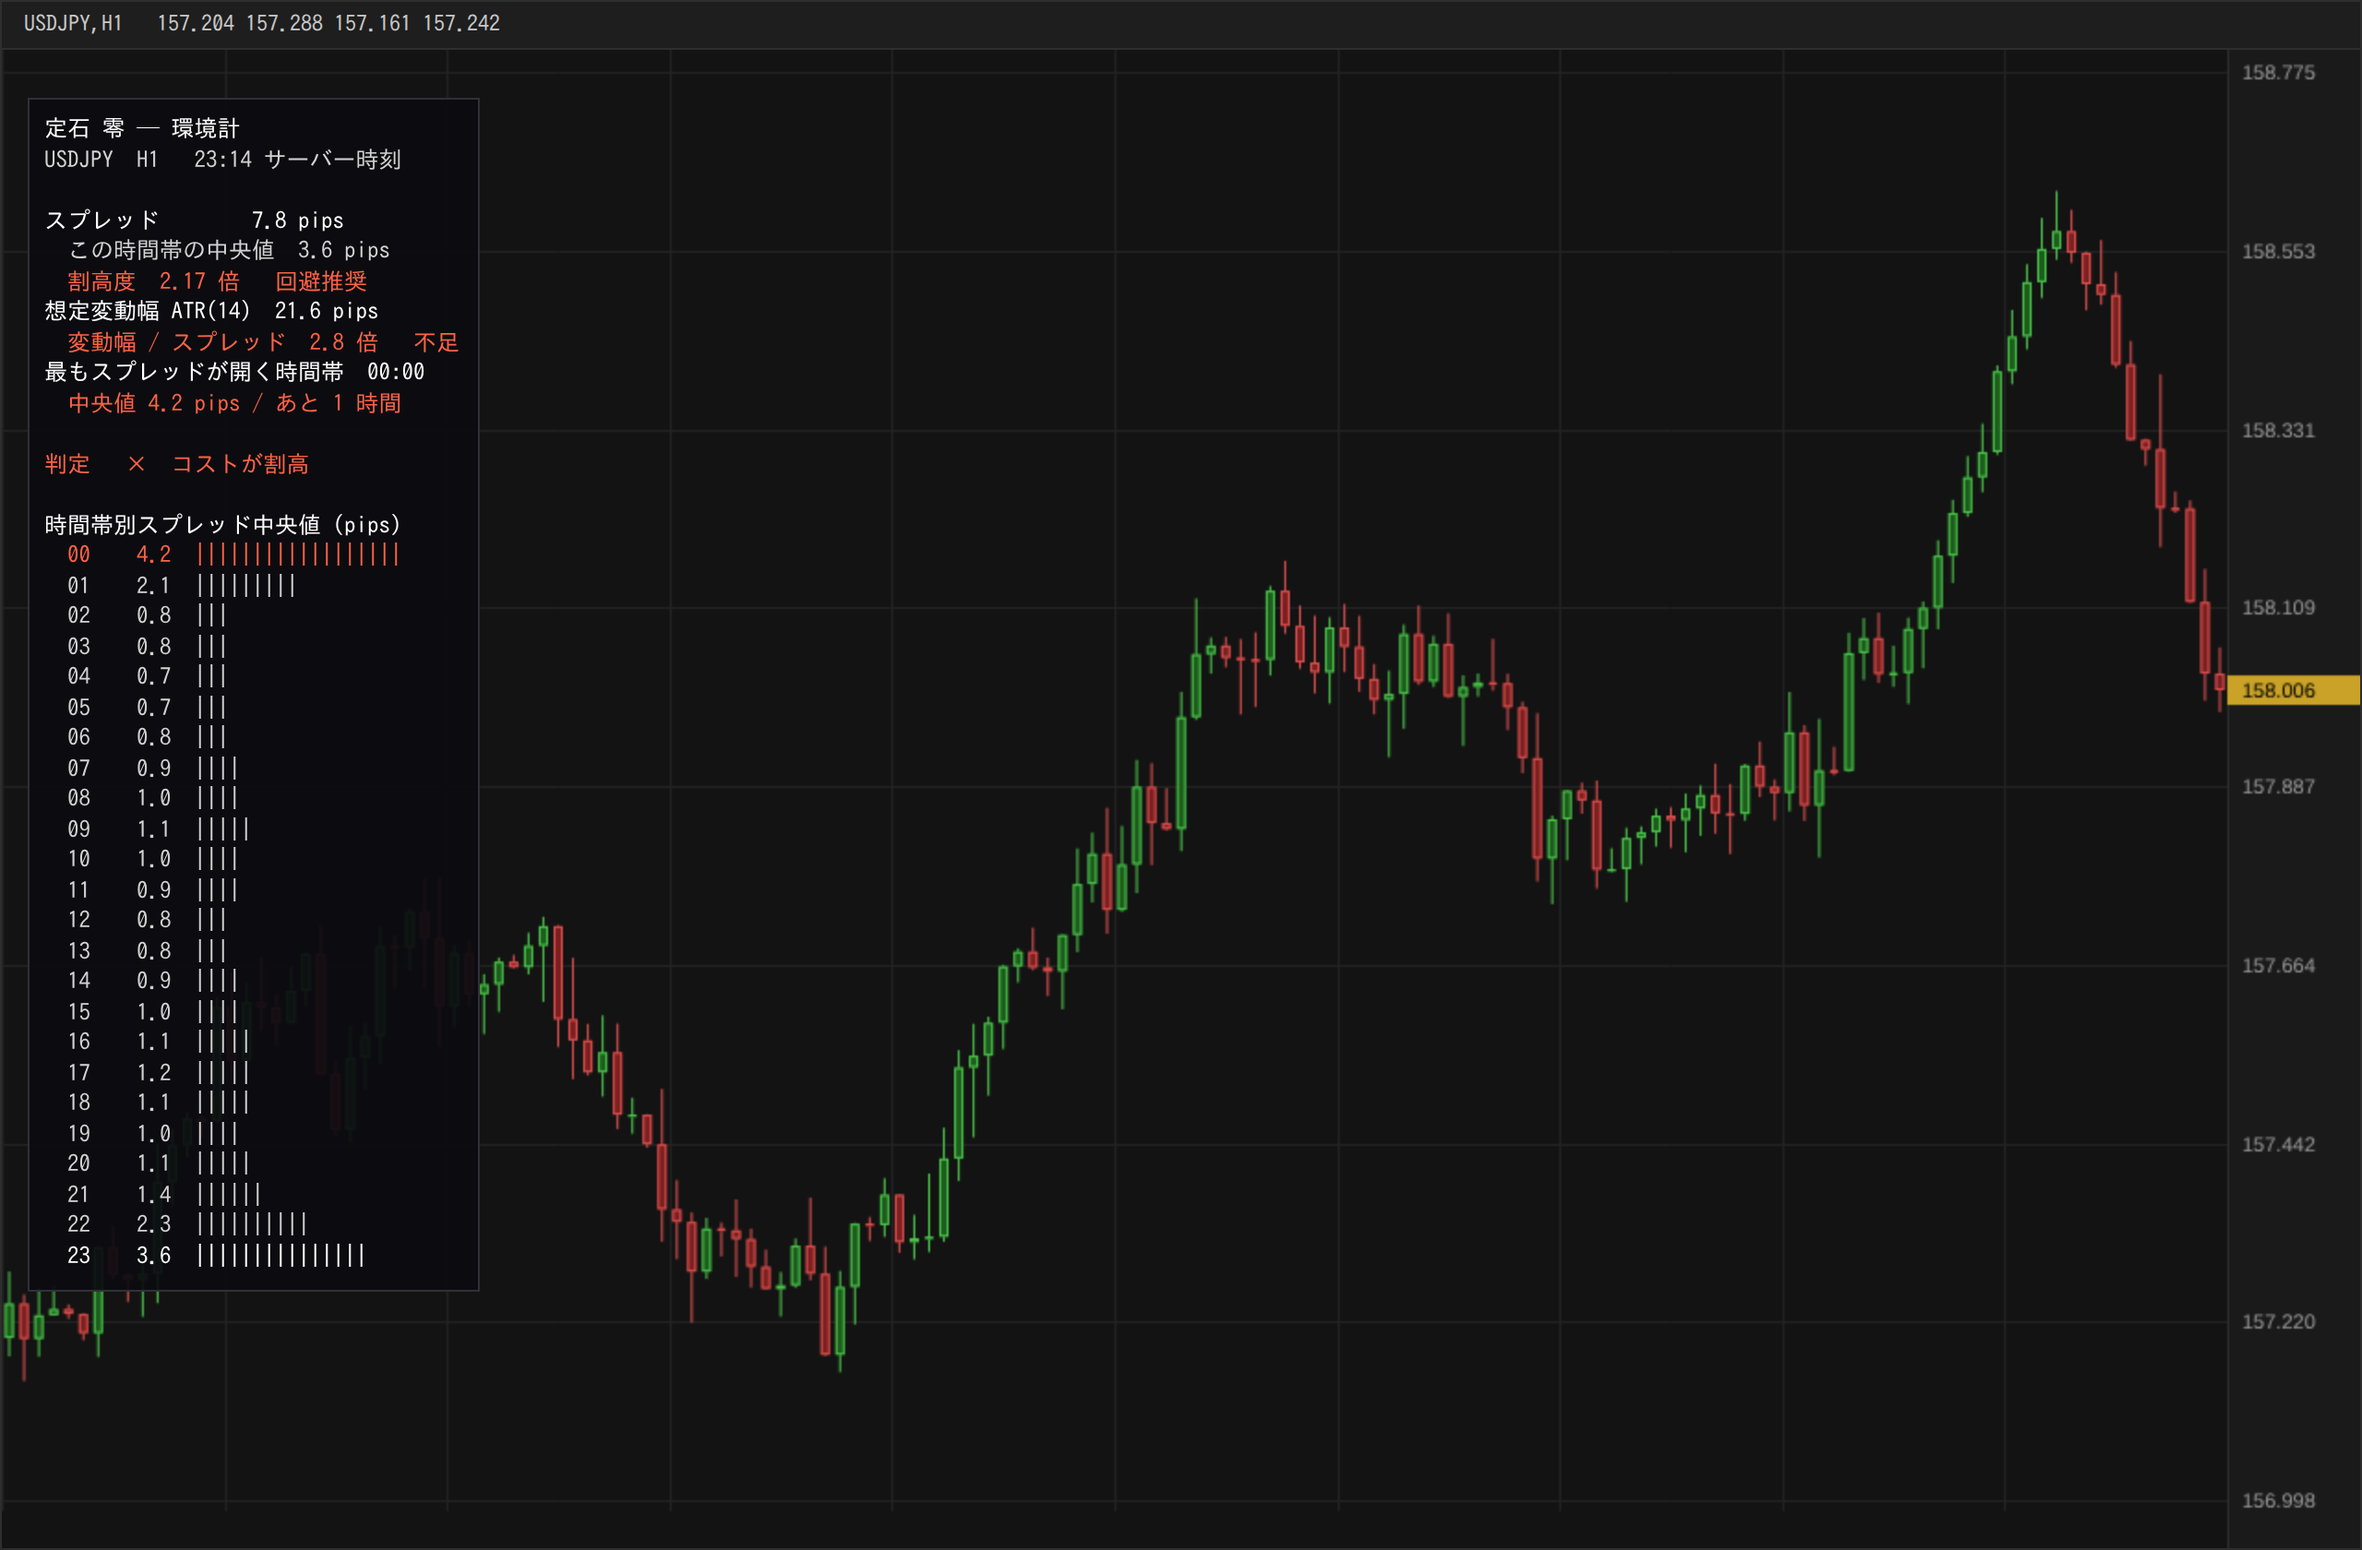
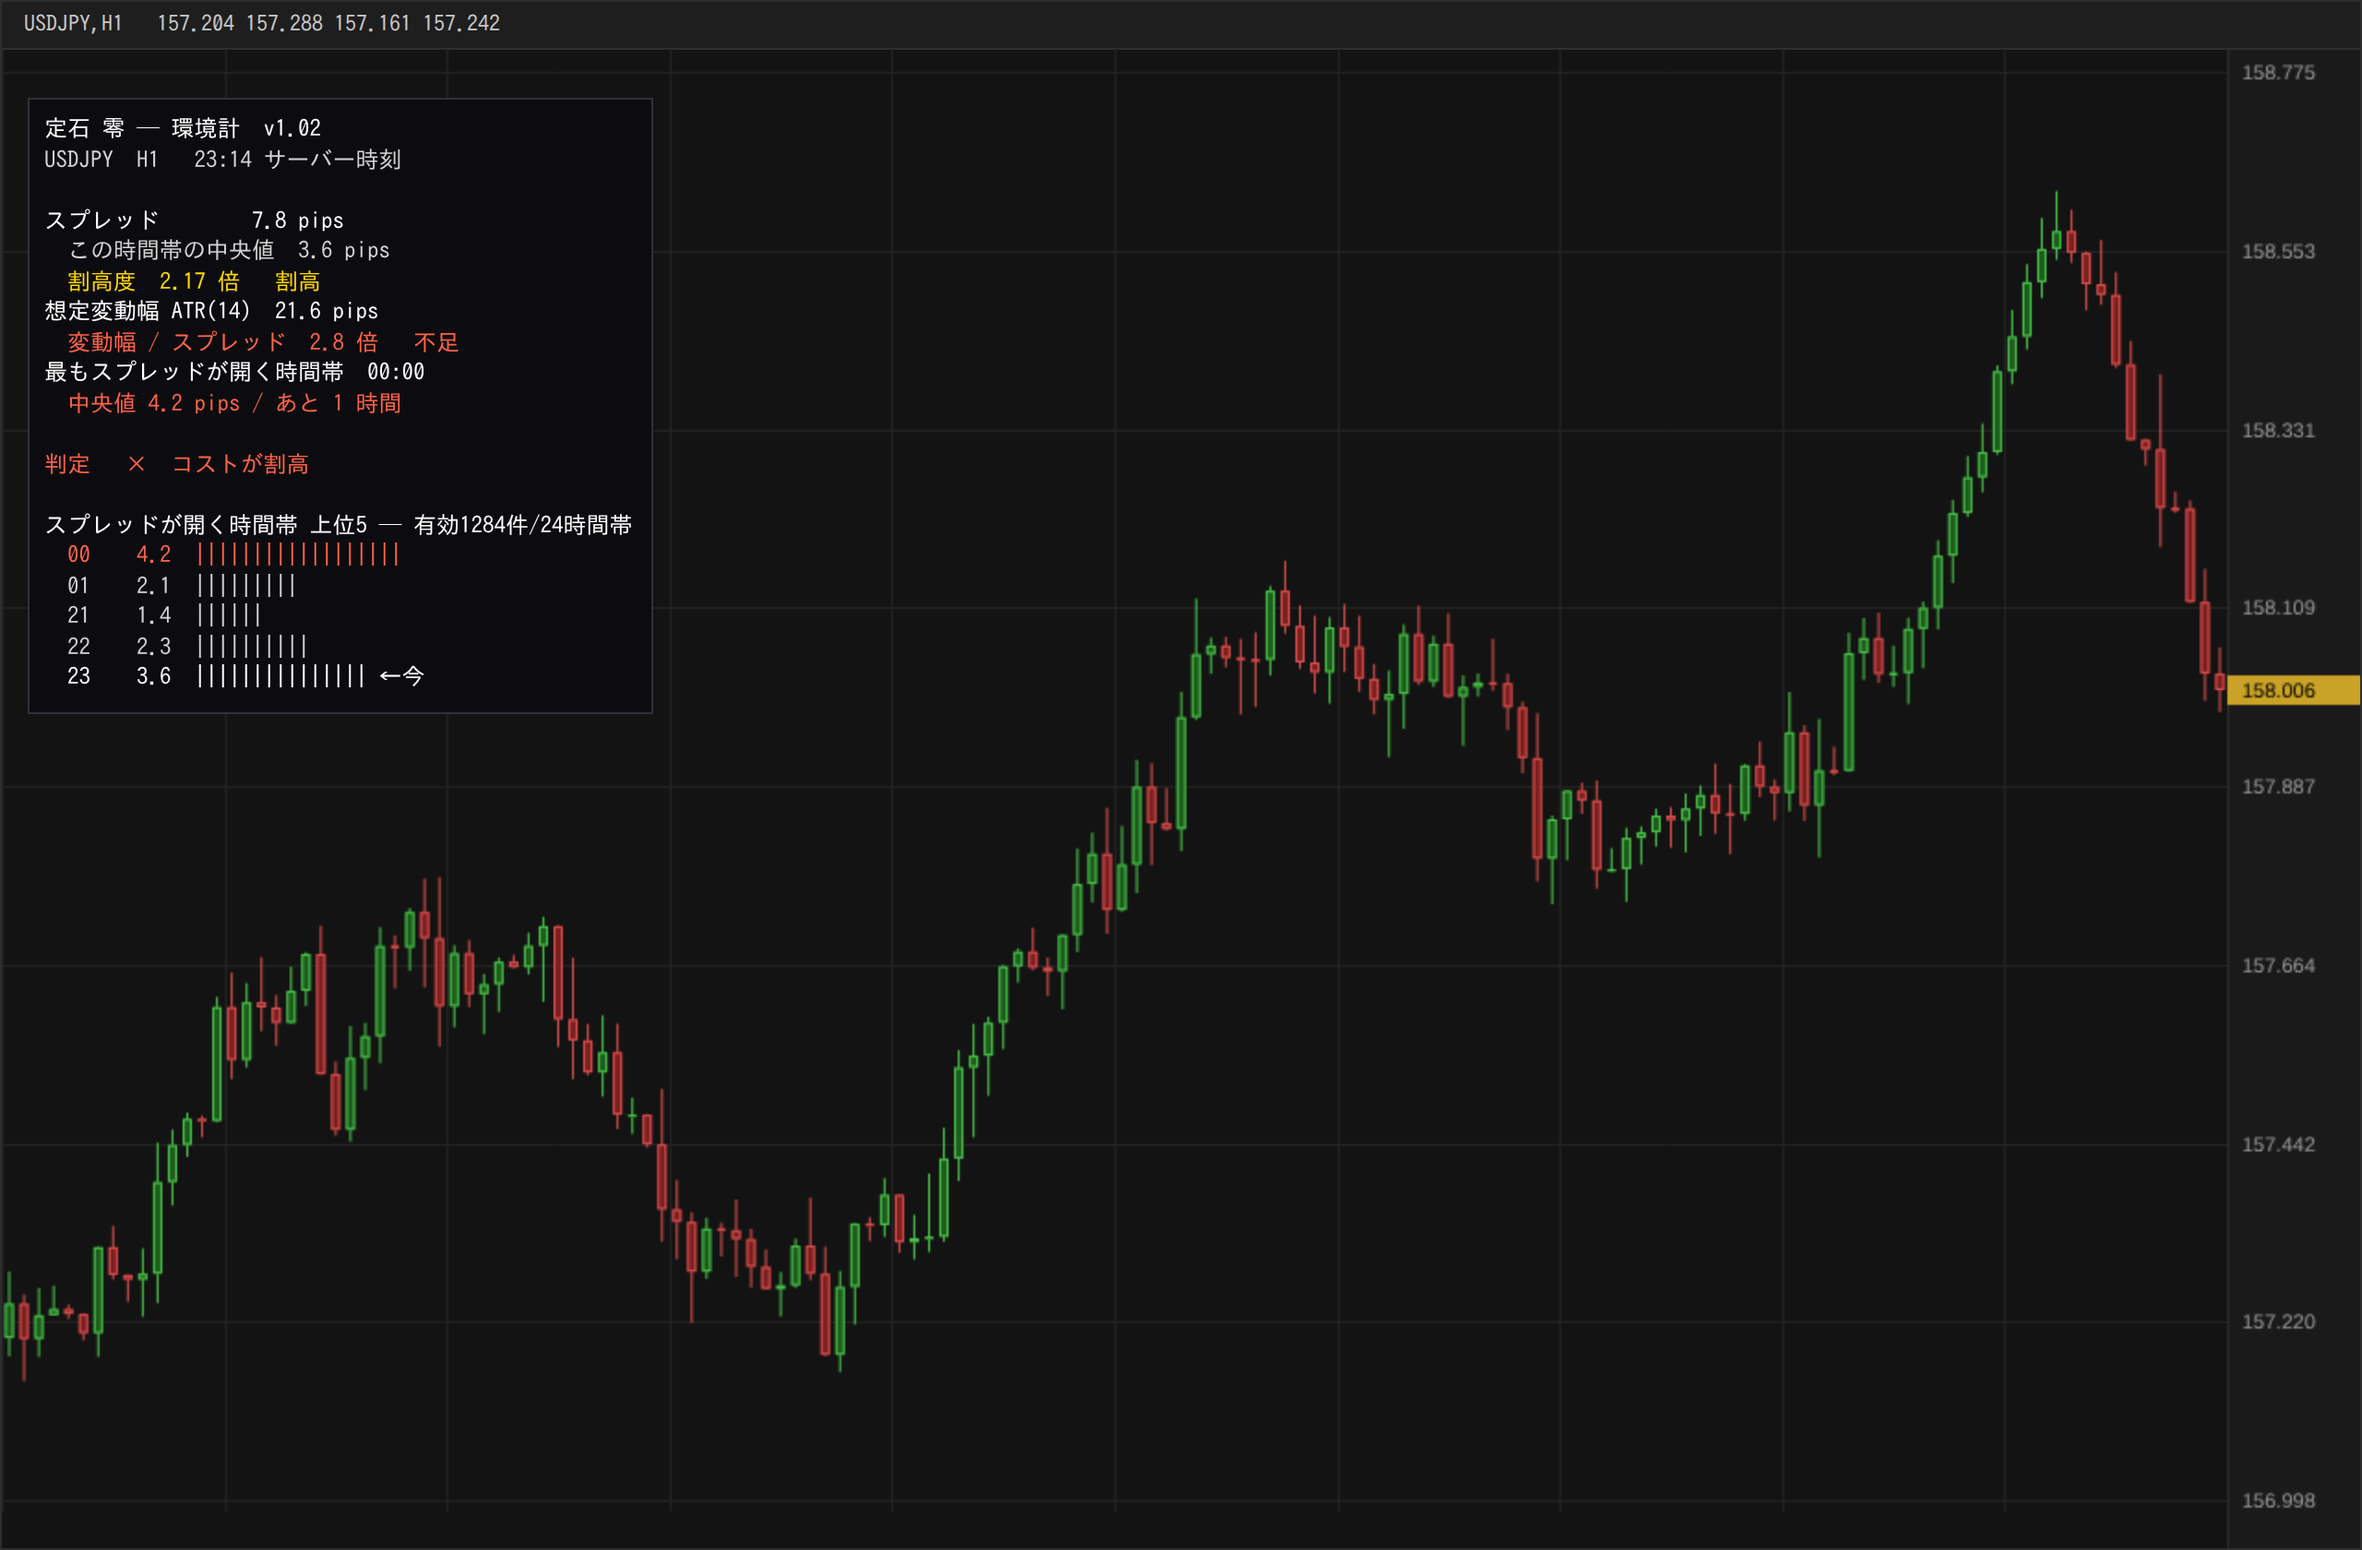
docs: 環境計 v1.02 に合わせて表示イメージ図と関連文書を更新
イメージ図を v1.02 の実際の出力に合わせて作り直した。
時間帯一覧が既定で上位5件+現在の時間帯になったため、パネルは38行から
14行に縮み、見出しに有効件数と成立時間帯数が入る。

FORM-kankyokei.md:
- 同梱ファイル名を ChienConditionMeter_v101.ex5 / .ex4 に修正。
  版番号は検証中に旧ビルドと区別するためのもので、配布時に外せる旨も記載
- スクリーンショット4枚の撮影難易度を明記し、
  イメージ図を実物として掲載しない旨の注意を追加

SALES.md:
- 時間帯一覧の説明を上位表示と有効件数の併記に合わせて書き直し
- 弱点の節に「導入直後は判定できませんと表示される。これは仕様であり、
  測れていないものを良好とは表示しない」を追記。
  v1.02 で修正した挙動を商品説明にも反映した

Claude-Session: https://claude.ai/code/session_015N7n1xtaz9Y9DcWXnbRY9X

diff --git a/fx-ea/indicator/mockup/gen.py b/fx-ea/indicator/mockup/gen.py
@@ -25,43 +25,57 @@ def bar(v, mx, width=18):
     return "|" * max(0, int(round(v / mx * width)))
 
 def panel_lines(mode):
+    """v1.02 の実際の出力に合わせる(上位5+現在の時間帯、有効件数表示)。"""
     mx = max(HOURS)
+    TOPN = 5
     if mode == "good":
-        hour, spr, med = 9, 0.9, 1.1
-        ratio, rtext, rcls = spr / med, "適正", "good"
+        hour, spr, med = 9, 0.9, HOURS[9]
         atr, mc = 32.4, 36.0
-        vtext, vcls = "○  コスト条件は良好", "good"
-        togo = (0 - hour + 24) % 24
     else:
-        hour, spr, med = 23, 7.8, 3.6
-        ratio, rtext, rcls = spr / med, "回避推奨", "avoid"
+        hour, spr, med = 23, 7.8, HOURS[23]
         atr, mc = 21.6, 2.8
-        vtext, vcls = "×  コストが割高", "avoid"
-        togo = (0 - hour + 24) % 24
+    ratio = spr / med
+    togo = (0 - hour + 24) % 24
+    samples, hours_ready = 1284, 24
 
     L = []
     A = lambda t, c="txt": L.append({"t": t, "c": c})
-    A("定石 零 ─ 環境計", "head")
+    A("定石 零 ─ 環境計  v1.02", "head")
     A(f"USDJPY  H1   {hour:02d}:14 サーバー時刻")
     A(" ")
     A(f"スプレッド        {spr:.1f} pips", "head")
     A(f"  この時間帯の中央値  {med:.1f} pips")
-    A(f"  割高度  {ratio:.2f} 倍   {rtext}", rcls)
+    if ratio >= 2.5:   rt, rcls = "回避推奨", "avoid"
+    elif ratio >= 1.5: rt, rcls = "割高", "caution"
+    else:              rt, rcls = "適正", "good"
+    A(f"  割高度  {ratio:.2f} 倍   {rt}", rcls)
     A(f"想定変動幅 ATR(14)  {atr:.1f} pips", "head")
-    mcls = "good" if mc >= 12 else ("caution" if mc >= 8 else "avoid")
-    mtext = "十分" if mc >= 12 else ("やや不足" if mc >= 8 else "不足")
-    A(f"  変動幅 / スプレッド  {mc:.1f} 倍   {mtext}", mcls)
+    if mc >= 12:  mt, mcls = "十分", "good"
+    elif mc >= 8: mt, mcls = "やや不足", "caution"
+    else:         mt, mcls = "不足", "avoid"
+    A(f"  変動幅 / スプレッド  {mc:.1f} 倍   {mt}", mcls)
     A(f"最もスプレッドが開く時間帯  00:00", "head")
     A(f"  中央値 {HOURS[0]:.1f} pips / あと {togo} 時間",
       "avoid" if togo <= 1 else "txt")
     A(" ")
-    A(f"判定   {vtext}", vcls)
+    score = 0
+    if ratio >= 2.5: score = 2
+    elif ratio >= 1.5: score = 1
+    if mc < 8: score = 2
+    elif mc < 12 and score < 1: score = 1
+    vt = ["○  コスト条件は良好", "△  コスト警戒", "×  コストが割高"][score]
+    A(f"判定   {vt}", ["good", "caution", "avoid"][score])
     A(" ")
-    A("時間帯別スプレッド中央値 (pips)", "head")
-    for h in range(24):
+    A(f"スプレッドが開く時間帯 上位{TOPN} ─ 有効{samples}件/{hours_ready}時間帯", "head")
+
+    top = sorted(range(24), key=lambda h: -HOURS[h])[:TOPN]
+    show = set(top) | {hour}
+    for h in sorted(show):
         cls = "head" if h == hour else ("avoid" if HOURS[h] == mx else "txt")
-        A(f"  {h:02d}  {HOURS[h]:5.1f}  {bar(HOURS[h], mx)}", cls)
+        tag = " ←今" if h == hour else ""
+        A(f"  {h:02d}  {HOURS[h]:5.1f}  {bar(HOURS[h], mx)}{tag}", cls)
     return L
+
 
 CSS = """
 *{margin:0;padding:0;box-sizing:border-box}

diff --git a/fx-ea/indicator/FORM-kankyokei.md b/fx-ea/indicator/FORM-kankyokei.md
@@ -93,9 +93,14 @@ FX・CFD
 **認証なしの場合**
 ```
 ChienConditionMeter.zip
-  ├ ChienConditionMeter.ex5   (コンパイル済み)
-  └ 取扱説明書.pdf             (SALES.md の説明書をPDF化)
+  ├ ChienConditionMeter_v101.ex5   (MT5用・コンパイル済み)
+  ├ ChienConditionMeter_v101.ex4   (MT4用・コンパイル済み)
+  └ 取扱説明書.pdf                  (SALES.md の説明書をPDF化)
 ```
+
+※ ソースのファイル名は `ChienConditionMeter_v101` です。
+検証中に旧ビルドと区別するため版番号を付けています。
+配布時に版番号なしの名前に戻すこともできます。ご希望があればお知らせください。
 
 **認証ありの場合**
 ```
@@ -104,12 +109,19 @@ zipファイルの直下に ex5 を置くこと(直下でないと認証失敗)
 
 ## 12. 商品バナー / 画像
 
-| # | 内容 |
-|---|---|
-| 1 | 判定が **○(良好)** のときのパネル |
-| 2 | 判定が **×(割高)** のとき ─ サーバー時間0時前後を狙う |
-| 3 | **時間帯別スプレッド一覧**が見えている全体像 |
-| 4 | 別の銘柄(GBPJPY等)での表示 |
+| # | 内容 | 撮影の難易度 |
+|---|---|---|
+| 1 | 判定が **○(良好)** のときのパネル | 通常時間帯ならいつでも |
+| 2 | 判定が **×(割高)** のとき | サーバー時間0時前後を狙う |
+| 3 | 時間帯別一覧に**割高な時間帯が並んでいる**画面 | いつでも |
+| 4 | 別の銘柄(GBPJPY等)での表示 | いつでも |
+
+**②が最も強い説得材料**です。ロールオーバー帯にスプレッドが跳ねている
+実物の画面は、文章より効きます。
+
+参考として `mockup/mock-01-good.png` `mockup/mock-02-avoid.png` に
+表示イメージ図があります。**ただしこれは作り物なので、
+「実際のスクリーンショット」として掲載しないでください。**
 
 形式: jpeg / jpg / gif / webp、10MB以下。アニメーション不可。
 
